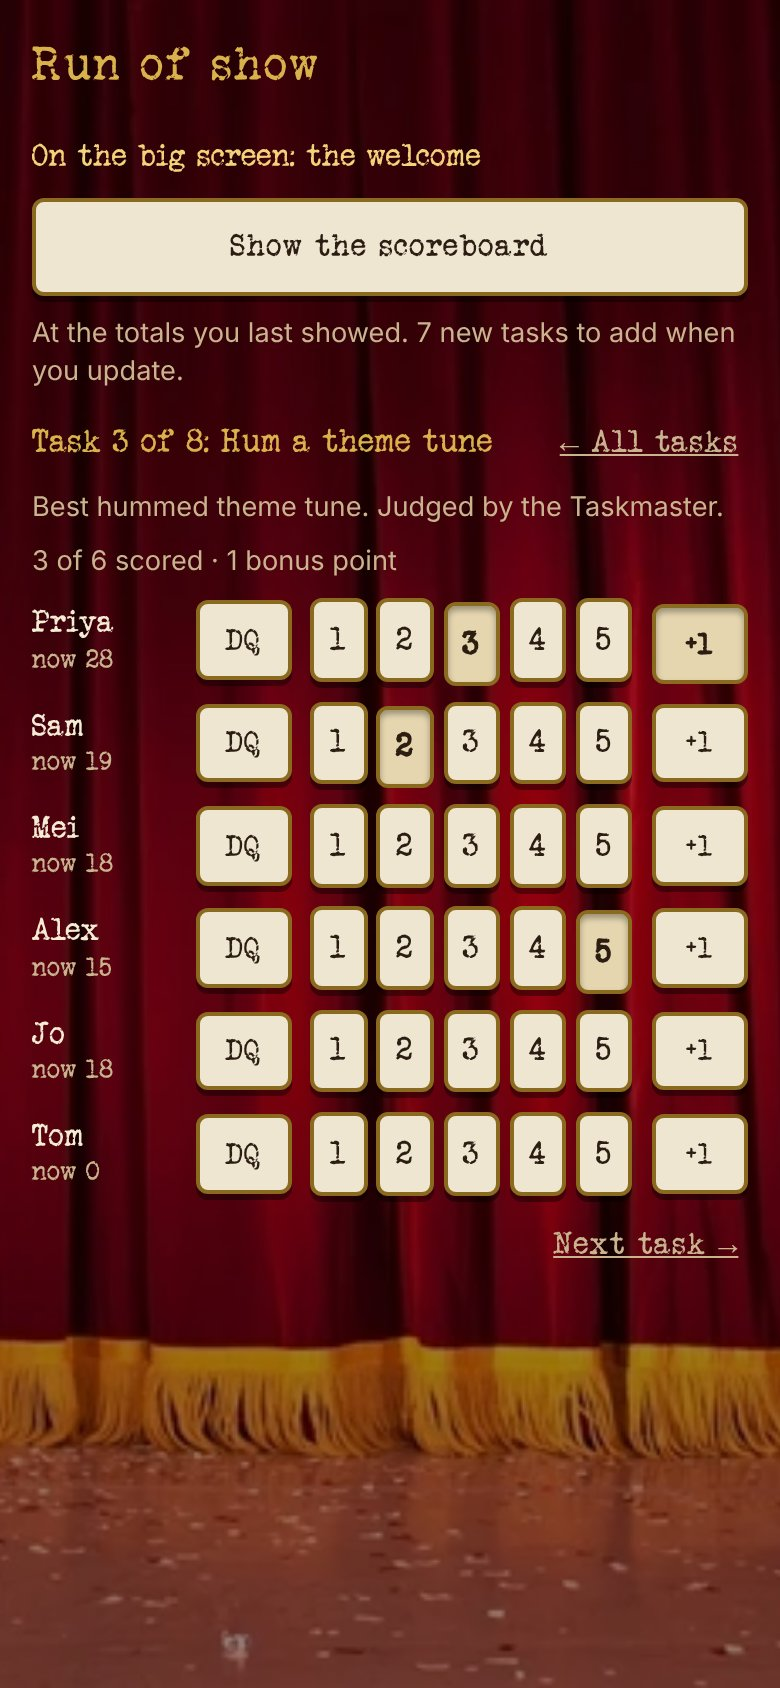
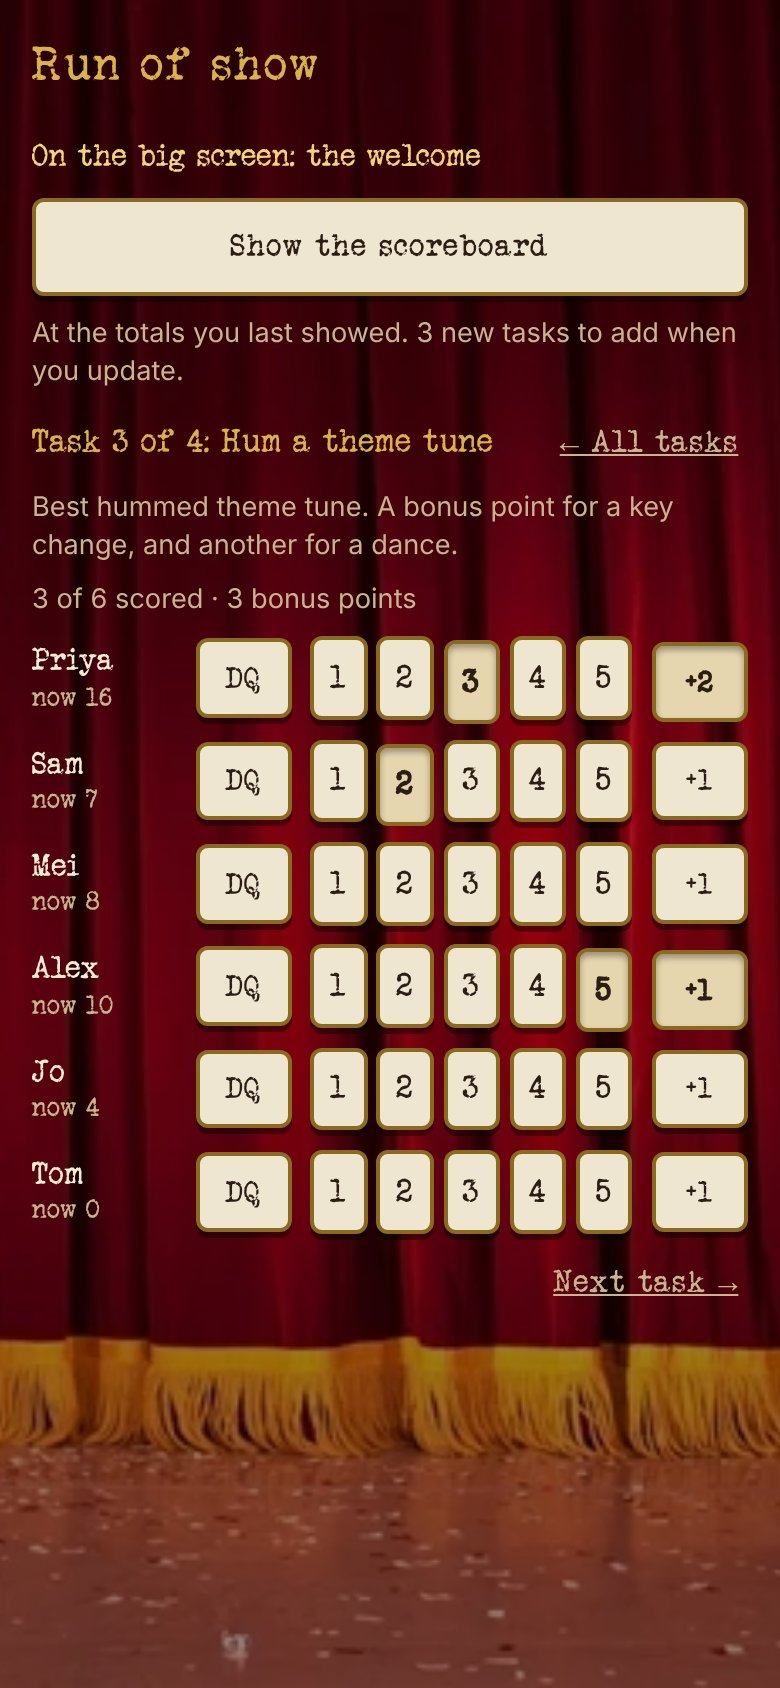
Bonus points: tapping the +1 again makes it +2, once more takes it away
A task can award two bonus points. Saved +1s (stored as true) still count as one.

Claude-Session: https://claude.ai/code/session_01Xd9CKJKeiGeCmaruWLVGmK

diff --git a/src/scoreboard/ScoreboardRemote.tsx b/src/scoreboard/ScoreboardRemote.tsx
@@ -8,7 +8,7 @@ import {
   addContestant, addKeptGame, addPlayerToScoreboard, addTask, editTask, editTiebreaker, lowerCurtain, removeContestant, removeTask, renameContestant, reorderTasks,
   declareWinner, enterPoints, setScoring, setTiebreakerWinner, showScoreboard, startTask, updateScores, uploadHeadshot, type TaskEntry,
 } from "./data";
-import { isMeasured, LO, ordinal, overLine, parseClock, workOut } from "./measured";
+import { bonusOf, isMeasured, LO, ordinal, overLine, parseClock, workOut } from "./measured";
 import { formatTime } from "../games/noisemaster/data";
 import { currentTotals, pendingTasks } from "./scoring";
 import { SongField, SongStrip } from "../SongStrip";
@@ -198,7 +198,7 @@ function Points({ code, session, board, onScreen, id, tasks, contestants, onChan
       loud && task.dqOver !== undefined ? ` · over ${task.dqOver} dB is a DQ` : ""} · ${
       contestants.filter(([c]) => task.results?.[c] !== undefined || task.dq?.[c]).length} of ${contestants.length} ${timed ? "played" : "measured"}`
     : `${contestants.filter(([c]) => worked.points[c] !== undefined).length} of ${contestants.length} scored`;
-  const bonuses = contestants.filter(([c]) => task.bonus?.[c]).length;
+  const bonuses = contestants.reduce((n, [c]) => n + bonusOf(task, c), 0);
 
   return (
     <section className="sb-points">
@@ -221,10 +221,10 @@ function Points({ code, session, board, onScreen, id, tasks, contestants, onChan
           ? <MeasuredRow key={c} name={con.name} total={totals[c] ?? 0} timed={timed} light={light} unit={task.unit?.name}
               lo={loud && task.scoring === "lowest"} over={task.overDq?.[c] ? task.dqOver : undefined}
               line={loud ? (reading) => overLine(task, c, reading) : undefined}
-              result={task.results?.[c]} restarts={task.restarts?.[c]} dq={!!task.dq?.[c]} given={task.given?.[c]} bonus={!!task.bonus?.[c]}
+              result={task.results?.[c]} restarts={task.restarts?.[c]} dq={!!task.dq?.[c]} given={task.given?.[c]} bonus={bonusOf(task, c)}
               points={worked.points[c]} auto={worked.auto[c]} place={worked.place[c]} before={worked.before[c]} onEnter={(entry) => enter(entry(c))} />
           : <PointsRow key={c} name={con.name} total={totals[c] ?? 0} points={worked.points[c]} given={(task.given ?? task.scores)?.[c]}
-              dq={!!task.dq?.[c]} bonus={!!task.bonus?.[c]} before={worked.before[c]} onEnter={(entry) => enter(entry(c))} />)}
+              dq={!!task.dq?.[c]} bonus={bonusOf(task, c)} before={worked.before[c]} onEnter={(entry) => enter(entry(c))} />)}
       </ul>
       {before && <p className="muted small sb-before-key"><span className="sb-before" aria-hidden="true" /> before the DQ</p>}
       {light && <p className="muted small">Change the order on <button className="link" onClick={onLight}>{LIGHT}</button>.</p>}
@@ -271,23 +271,28 @@ function Tiebreaker({ code, session, board, tied, onClose }: {
 
 const CHIPS = [1, 2, 3, 4, 5];
 
-/** The +1 at the end of a points row: a bonus point on top of whatever they scored. A DQ keeps it. */
-function BonusChip({ name, bonus, onEnter }: { name: string; bonus: boolean; onEnter: EntryFor }) {
+/**
+ * The +1 at the end of a points row: bonus points on top of whatever they scored. Each tap goes +1, +2, then
+ * none, so a task with two bonus points needs no other chip. A DQ keeps them.
+ */
+function BonusChip({ name, bonus, onEnter }: { name: string; bonus: number; onEnter: EntryFor }) {
+  const next = bonus >= 2 ? null : bonus + 1;
   return (
     <div className="choices marks sb-bonus">
-      <button aria-pressed={bonus} aria-label={`Bonus point for ${name}`} onClick={() => onEnter((c) => ({ bonus: one(c, bonus ? null : true) }))}>+1</button>
+      <button aria-pressed={bonus > 0} aria-label={`Bonus points for ${name}: ${bonus}. Tap for ${next ?? "none"}`}
+        onClick={() => onEnter((c) => ({ bonus: one(c, next) }))}>+{bonus || 1}</button>
     </div>
   );
 }
 
 /**
- * One contestant on a by-hand task: DQ by the name, then 1 to 5, and +1 for a bonus point on top. Tapping the
+ * One contestant on a by-hand task: DQ by the name, then 1 to 5, and +1 (or +2) for bonus points on top. Tapping the
  * pressed chip takes the points away. A DQ keeps the points they were given, struck through; a dashed chip
  * is what they had before someone else's DQ moved them up. Points typed in before there was a bonus (0, 6, 2.5)
  * show as one more pressed chip, until tapped away.
  */
 function PointsRow({ name, total, points, given, dq, bonus, before, onEnter }: {
-  name: string; total: number; points?: number; given?: number; dq: boolean; bonus: boolean; before?: number; onEnter: EntryFor;
+  name: string; total: number; points?: number; given?: number; dq: boolean; bonus: number; before?: number; onEnter: EntryFor;
 }) {
   // What a tap means: the points they end up with, so take off what the DQs moved them up by.
   const moved = !dq && points !== undefined && given !== undefined ? points - given : 0;
@@ -316,13 +321,13 @@ function PointsRow({ name, total, points, given, dq, bonus, before, onEnter }: {
 
 /**
  * One contestant on a measured task: DQ by the name, their number (a time, for Noisemaster), and their points
- * with the place under them, then +1 for a bonus point. Tapping the points opens the chips, to set them by hand;
+ * with the place under them, then +1 (or +2) for bonus points. Tapping the points opens the chips, to set them by hand;
  * a point set by hand sticks. On a dB task, `line` is what its DQ line makes of a reading (see overLine), `over` the
  * line they went over, and `lo` offers LO, under the box while it's being typed in.
  */
 function MeasuredRow({ name, total, timed, light, unit, lo, over, line, result, restarts, dq, given, bonus, points, auto, place, before, onEnter }: {
   name: string; total: number; timed: boolean; light: boolean; unit?: string; lo?: boolean; over?: number; line?: (reading: number | undefined) => Omit<TaskEntry, "results">;
-  result?: number; restarts?: number; dq: boolean; given?: number; bonus: boolean; points?: number; auto?: number; place?: number; before?: number; onEnter: EntryFor;
+  result?: number; restarts?: number; dq: boolean; given?: number; bonus: number; points?: number; auto?: number; place?: number; before?: number; onEnter: EntryFor;
 }) {
   const format = (n: number) => timed ? formatTime(n) : n === LO ? "LO" : String(n);
   const [typing, setTyping] = useState<string>();

diff --git a/docs/style-sheet/sheet.tsx b/docs/style-sheet/sheet.tsx
@@ -92,14 +92,14 @@ function Sheet() {
             </div>
             <Item cap={<><code>.choices</code>: pick one setting, the chosen one gold</>}><div className="choices"><button className="active" aria-pressed>Photos</button><button aria-pressed={false}>Before &amp; After</button><button aria-pressed={false}>Noisemaster</button></div></Item>
             <Item cap={<><code>.choices.marks</code>: mark several, pressed in with ✓, never gold</>}><div className="choices marks"><button aria-pressed>✓ Sam</button><button aria-pressed={false}>Priya</button><button aria-pressed>✓ Mei</button></div></Item>
-            <Item cap={<>Points rows: a small DQ chip (<code>.sb-dq</code>) by the name, then the points chips: picked pressed in; <code>.was</code> struck under a DQ; <code>.before</code> dashed, before a DQ moved them; then the +1 bonus chip (<code>.sb-bonus</code>), kept through a DQ</>}>
+            <Item cap={<>Points rows: a small DQ chip (<code>.sb-dq</code>) by the name, then the points chips: picked pressed in; <code>.was</code> struck under a DQ; <code>.before</code> dashed, before a DQ moved them; then the bonus chip (<code>.sb-bonus</code>): +1, tapped again +2, kept through a DQ</>}>
               <ul className="sb-rows">
                 <li><span className="sb-name">Sam<span className="muted small sb-now">now 5</span></span><div className="choices marks sb-dq"><button aria-pressed>DQ</button></div>
                   <div className="choices marks sb-chips"><button>1</button><button>2</button><button className="was">3</button><button>4</button><button>5</button></div>
                   <div className="choices marks sb-bonus"><button aria-pressed>+1</button></div></li>
                 <li><span className="sb-name">Mei<span className="muted small sb-now">now 6</span></span><div className="choices marks sb-dq"><button>DQ</button></div>
                   <div className="choices marks sb-chips"><button>1</button><button className="before">2</button><button aria-pressed>3</button><button>4</button><button>5</button></div>
-                  <div className="choices marks sb-bonus"><button>+1</button></div></li>
+                  <div className="choices marks sb-bonus"><button aria-pressed>+2</button></div></li>
               </ul>
             </Item>
             <Item cap={<><code>.sb-lo</code>: LO for a dB meter, under the box while it's typed in</>}>

diff --git a/src/scoreboard/data.ts b/src/scoreboard/data.ts
@@ -126,7 +126,7 @@ export interface TaskEntry {
   dq?: Record<string, true | null>;
   overDq?: Record<string, true | null>;
   dqStays?: true | null;
-  bonus?: Record<string, true | null>;
+  bonus?: Record<string, number | null>;
 }
 
 
@@ -154,7 +154,7 @@ export function enterPoints(code: string, board: Scoreboard | undefined, onScree
   if (entry.dq) next.dq = merged<true>(next.dq, entry.dq);
   if (entry.overDq) next.overDq = merged<true>(next.overDq, entry.overDq);
   if (entry.dqStays !== undefined) next.dqStays = entry.dqStays ?? undefined;
-  if (entry.bonus) next.bonus = merged<true>(next.bonus, entry.bonus);
+  if (entry.bonus) next.bonus = merged<true | number>(next.bonus, entry.bonus);
   const points = withBonus(next, workOut(next).points);
   const patch: Record<string, unknown> = { [`tasks/${id}/scores`]: Object.keys(points).length ? points : null };
   for (const k of ENTERED) if (next[k] !== task[k]) patch[`tasks/${id}/${k}`] = next[k] ?? null;

diff --git a/src/scoreboard/measured.ts b/src/scoreboard/measured.ts
@@ -85,10 +85,16 @@ export function workOut(t: ScoreboardTask): Worked {
   return { points, before, place, auto, moved, held };
 }
 
-/** The points that count on the scoreboard: the task's points, and one more for each bonus. */
+/** A contestant's bonus points on a task: 0, 1 or 2. */
+export const bonusOf = (t: ScoreboardTask, c: string) => {
+  const b = t.bonus?.[c];
+  return b === true ? 1 : b ?? 0;
+};
+
+/** The points that count on the scoreboard: the task's points, and the bonus points on top. */
 export function withBonus(t: ScoreboardTask, points: Points): Points {
   const out = { ...points };
-  for (const c of Object.keys(t.bonus ?? {})) out[c] = (out[c] ?? 0) + 1;
+  for (const c of Object.keys(t.bonus ?? {})) out[c] = (out[c] ?? 0) + bonusOf(t, c);
   return out;
 }
 

diff --git a/src/types.ts b/src/types.ts
@@ -246,8 +246,8 @@ export interface ScoreboardTask {
   results?: Record<string, number>;
   /** Points the host tapped: every point on a by-hand task, an override on a measured one. */
   given?: Record<string, number>;
-  /** Contestants given a bonus point on top of their points for this task. A DQ keeps it. */
-  bonus?: Record<string, true>;
+  /** Bonus points on top of a contestant's points for this task: 1 or 2 (`true`, from before there could be 2, is 1). A DQ keeps them. */
+  bonus?: Record<string, true | number>;
   /** Disqualified contestants: 0 points, whatever they were given or measured (a bonus still counts). */
   dq?: Record<string, true>;
   /** A dB-meter task: a reading over this many dB is a DQ as soon as it's typed (exactly this many is safe). */

diff --git a/docs/style-guide.md b/docs/style-guide.md
@@ -71,7 +71,7 @@ Contrast note: `--muted` is for the dark backdrop only. On paper, use `#7a6a55` 
 - **Marks** (`.choices.marks`): marking several things true at once, like Secret Tasks' scoring ("Did Sam do it?", "Who guessed it?"). The same paper chips, but a marked one stays pressed in, with a ✓ and `aria-pressed`, and never turns gold, so gold stays on the screen's one next action.
 - **DQ chip** (`.choices.marks.sb-dq`): one small chip, the same size on every points row, right after the contestant's name so it reads as being about the person, not their score. Pressed in while they're DQ'd.
 - **Points chips** (`.choices.marks.sb-chips`): a contestant's points on the scoreboard, "1 2 3 4 5" after the DQ chip, one line per contestant. There's no typed-in number: points typed before the bonus (0, 6, 2.5) still count and show as one more pressed chip until tapped away. The picked chip is pressed in like a mark. A DQ'd contestant's points stay on their chip, struck through and faded (`.was`); a **dashed** chip (`.before`) is what someone had before a DQ moved them up, explained by a key under the list. DQ is only ever on the host's screens.
-- **Bonus chip** (`.choices.marks.sb-bonus`): "+1" at the far end of every points row, by hand or measured, the DQ chip's size. A bonus point on top of whatever they scored, pressed in while they have it. It sits apart from the 1–5 chips so it doesn't read as a sixth score, and at the end because it goes on top of the score, where DQ sits by the name because it's about the person. A DQ keeps the bonus. "now N" includes it and the status line counts them ("3 of 6 scored · 1 bonus point"). The big screen only shows totals. See: [scoreboard-host-points.jpg](screens/scoreboard-host-points.jpg).
+- **Bonus chip** (`.choices.marks.sb-bonus`): "+1" at the far end of every points row, by hand or measured, the DQ chip's size. Bonus points on top of whatever they scored: each tap goes "+1", "+2", then none, pressed in (and reading "+1" or "+2") while they have them. It sits apart from the 1–5 chips so it doesn't read as a sixth score, and at the end because it goes on top of the score, where DQ sits by the name because it's about the person. A DQ keeps the bonus. "now N" includes it and the status line adds them up ("3 of 6 scored · 3 bonus points"). The big screen only shows totals. See: [scoreboard-host-points.jpg](screens/scoreboard-host-points.jpg).
 - **Measured rows** (`.sb-measured`): the DQ chip by the name, a number box per contestant, the unit (or Noisemaster's "↺ 2") after it, the points over the place ("4" over "2nd") as a quiet button that opens the points chips (1 to 5), then the bonus chip. On a phone the gaps are tight (0.35rem) so a Noisemaster time still fits its box. One subgrid, so the columns line up. A point set by hand carries a small ✎; a small dashed number beside the points is the one before a DQ. A DQ'd row strikes its number through; one a dB task's DQ line made says "over 60" under its 0 instead of "DQ". On a lowest-wins dB task, a small LO chip (`.sb-lo`) opens under the box while it's typed in, for the meter's LO (see [scoreboard-host-points-db-dq.jpg](screens/scoreboard-host-points-db-dq.jpg), [scoreboard-host-points-db-lo.jpg](screens/scoreboard-host-points-db-lo.jpg)). On a wide iPad the name column fits the longest name and the box keeps a fixed width, so DQ and the points stay by the name. The light's page has "got it 2nd" or a muted "not yet" (`.sb-got`) where the box goes, since its order is marked on 💡, and a "Change the order on 💡 The light" link under the rows. See: [scoreboard-host-points-light.jpg](screens/scoreboard-host-points-light.jpg).
 - **"Got it" list** (`.light-got`, `GotIt` in `LightRemote.tsx`): on the 💡 page, who has worked out the light's secret, in the order the host tapped them. A row per guesser, "2nd Priya 4 pts", the points in `--gold-bright` so the host can read them out. Under it a paper chip per contestant, alphabetical; tapping one adds them as the next place. Someone on the list keeps their chip in the same spot, dimmed (0.55) with a ✓, so the names never move. Tapping a row or a dimmed chip opens the row: the places as `.choices.marks` (the current one pressed in) to move them, and "Take Tom off the list". While the light is on the task list the points are the scoreboard's, and a DQ there strikes the name through with "DQ" for the points; until then a muted line says the points aren't on the scoreboard, with an "Add it" link (Noisemaster's done line has the same nudge). See: [host-light-got-it.jpg](screens/host-light-got-it.jpg), [host-light-got-it-fix.jpg](screens/host-light-got-it-fix.jpg), [host-light-got-it-dq.jpg](screens/host-light-got-it-dq.jpg), [noisemaster-host-kept.jpg](screens/noisemaster-host-kept.jpg).
 - **Link** (`.link`): no chrome, `--muted`, underlined. For quiet or escape actions: Not Alex? Not the right party?, Disconnect, End session, Lower the curtain, Reset.
@@ -113,7 +113,7 @@ Lists of people, tasks and photos on the host remote use the same handful of sta
 | Disqualified | DQ chip pressed in; what they'd have had struck through and faded (`.was`), never removed | The points page |
 | Over a dB task's line | The same DQ, with "over 60" under the 0 instead of "DQ" | The points page |
 | Before a DQ moved them | A dashed outline (`.before`, `.sb-before`), with a key under the list | The points page |
-| Bonus point | "+1" chip pressed in, counted in "now N" and in "· 1 bonus point" | The points page |
+| Bonus points | "+1" or "+2" chip pressed in, counted in "now N" and in "· 3 bonus points" | The points page |
 | Not tappable but not unavailable | `.sb-task:disabled` keeps full opacity: the row is just information until there are contestants | Task rows before anyone is added |
 
 State is never colour alone: each one also has its words (✓, "next", "on the big screen", "scored", "not yet").

diff --git a/docs/screens/README.md b/docs/screens/README.md
@@ -62,7 +62,7 @@ Scoreboard (taken on 2026-10-12, from the real components with made-up sessions;
 | `main-recent-sessions.jpg` | Main screen's start page: "Recent sessions" chips with the party name over the code (a party from before names has the code alone) |
 | `scoreboard-host-name-party.jpg` | "Name this party" before starting one from the iPad |
 | `scoreboard-host-new-party.jpg` | 🏆 on a new party: not connected yet, the starter Headshot and Prize tasks |
-| `scoreboard-host-points.jpg` | Giving points for one task scored by hand: each contestant on one line, the name with "now N" under it, a small DQ chip by the name, chips 1 to 5, then "+1" for a bonus point (Priya's pressed: 3 +1), "3 of 6 scored · 1 bonus point", "← All tasks", "Next task →" (2026-10-17) |
+| `scoreboard-host-points.jpg` | Giving points for one task scored by hand: each contestant on one line, the name with "now N" under it, a small DQ chip by the name, chips 1 to 5, then the bonus chip (Priya's tapped twice: 3 +2; Alex's once: 5 +1), "3 of 6 scored · 3 bonus points", "← All tasks", "Next task →" (2026-10-17) |
 | `scoreboard-host-points-iphone.jpg` | The points page at iPhone width: still one line per contestant, with the +1 at the end (2026-10-17) |
 | `scoreboard-host-points-dq.jpg` | A by-hand task with a DQ after the points: Sam's 4 struck through but his +1 bonus kept, the people below him moved up with dashed chips for what they had, "Sam's DQ moved 3 people up. Don't move them", and Tom DQ'd with no points (2026-10-17) |
 | `scoreboard-host-points-measured.jpg` | A measured task ("Highest wins · 5 of 6 measured · 2 bonus points"): DQ by the name, a box per contestant with "dice" after it, the points over the place, then "+1"; Priya's bonus on top of her 5; Alex DQ'd, his 19 struck through and his bonus kept, the others moved up; Tom not measured yet (2026-10-17) |

diff --git a/docs/redesign-decisions.md b/docs/redesign-decisions.md
@@ -348,6 +348,7 @@ The "…" chip ("any other number") became a +1 bonus point on top of the points
 | Moment | Decision | Rejected, and why |
 | --- | --- | --- |
 | The chip | A "+1" chip that toggles, the DQ chip's size, at the far end of every points row (by hand: after 1 to 5; measured: after the points and place). It sits apart from the 1–5 chips so it doesn't read as a sixth score, and it goes at the end because it goes on top of the score, where DQ sits by the name because it's about the person. | Typing in any number with "…": Jeffrey wanted a bonus, not free text. Putting +1 inside a measured row's points chips: it would be hidden. |
+| Two bonus points | Tapping the chip again makes it "+2", and once more takes the bonus away, on every task (a task Jeffrey had already sent out awards two). Saved +1s stay +1. | A task setting "Up to 2 bonus points": setup for a rare case. A separate +2 chip: the phone's measured rows had just been squeezed to fit the +1. |
 | At a glance | The pressed chips read "3 +1"; "now N" includes the bonus; the status line adds "· 2 bonus points". The big screen shows totals only, so it's unchanged. | |
 | A DQ | A DQ keeps the bonus: the task's points go to 0 and the +1 still counts. | DQ wiping the bonus: on the show a DQ'd attempt can still earn a point. |
 | Old typed-in points | Points typed through "…" before the bonus (a 0, a 6, a 2.5) still count, shown as one more pressed chip until tapped away. A plain 0 can't be given any more: no points, or a DQ, gives nothing. The measured override chips are 1 to 5 only. | |
